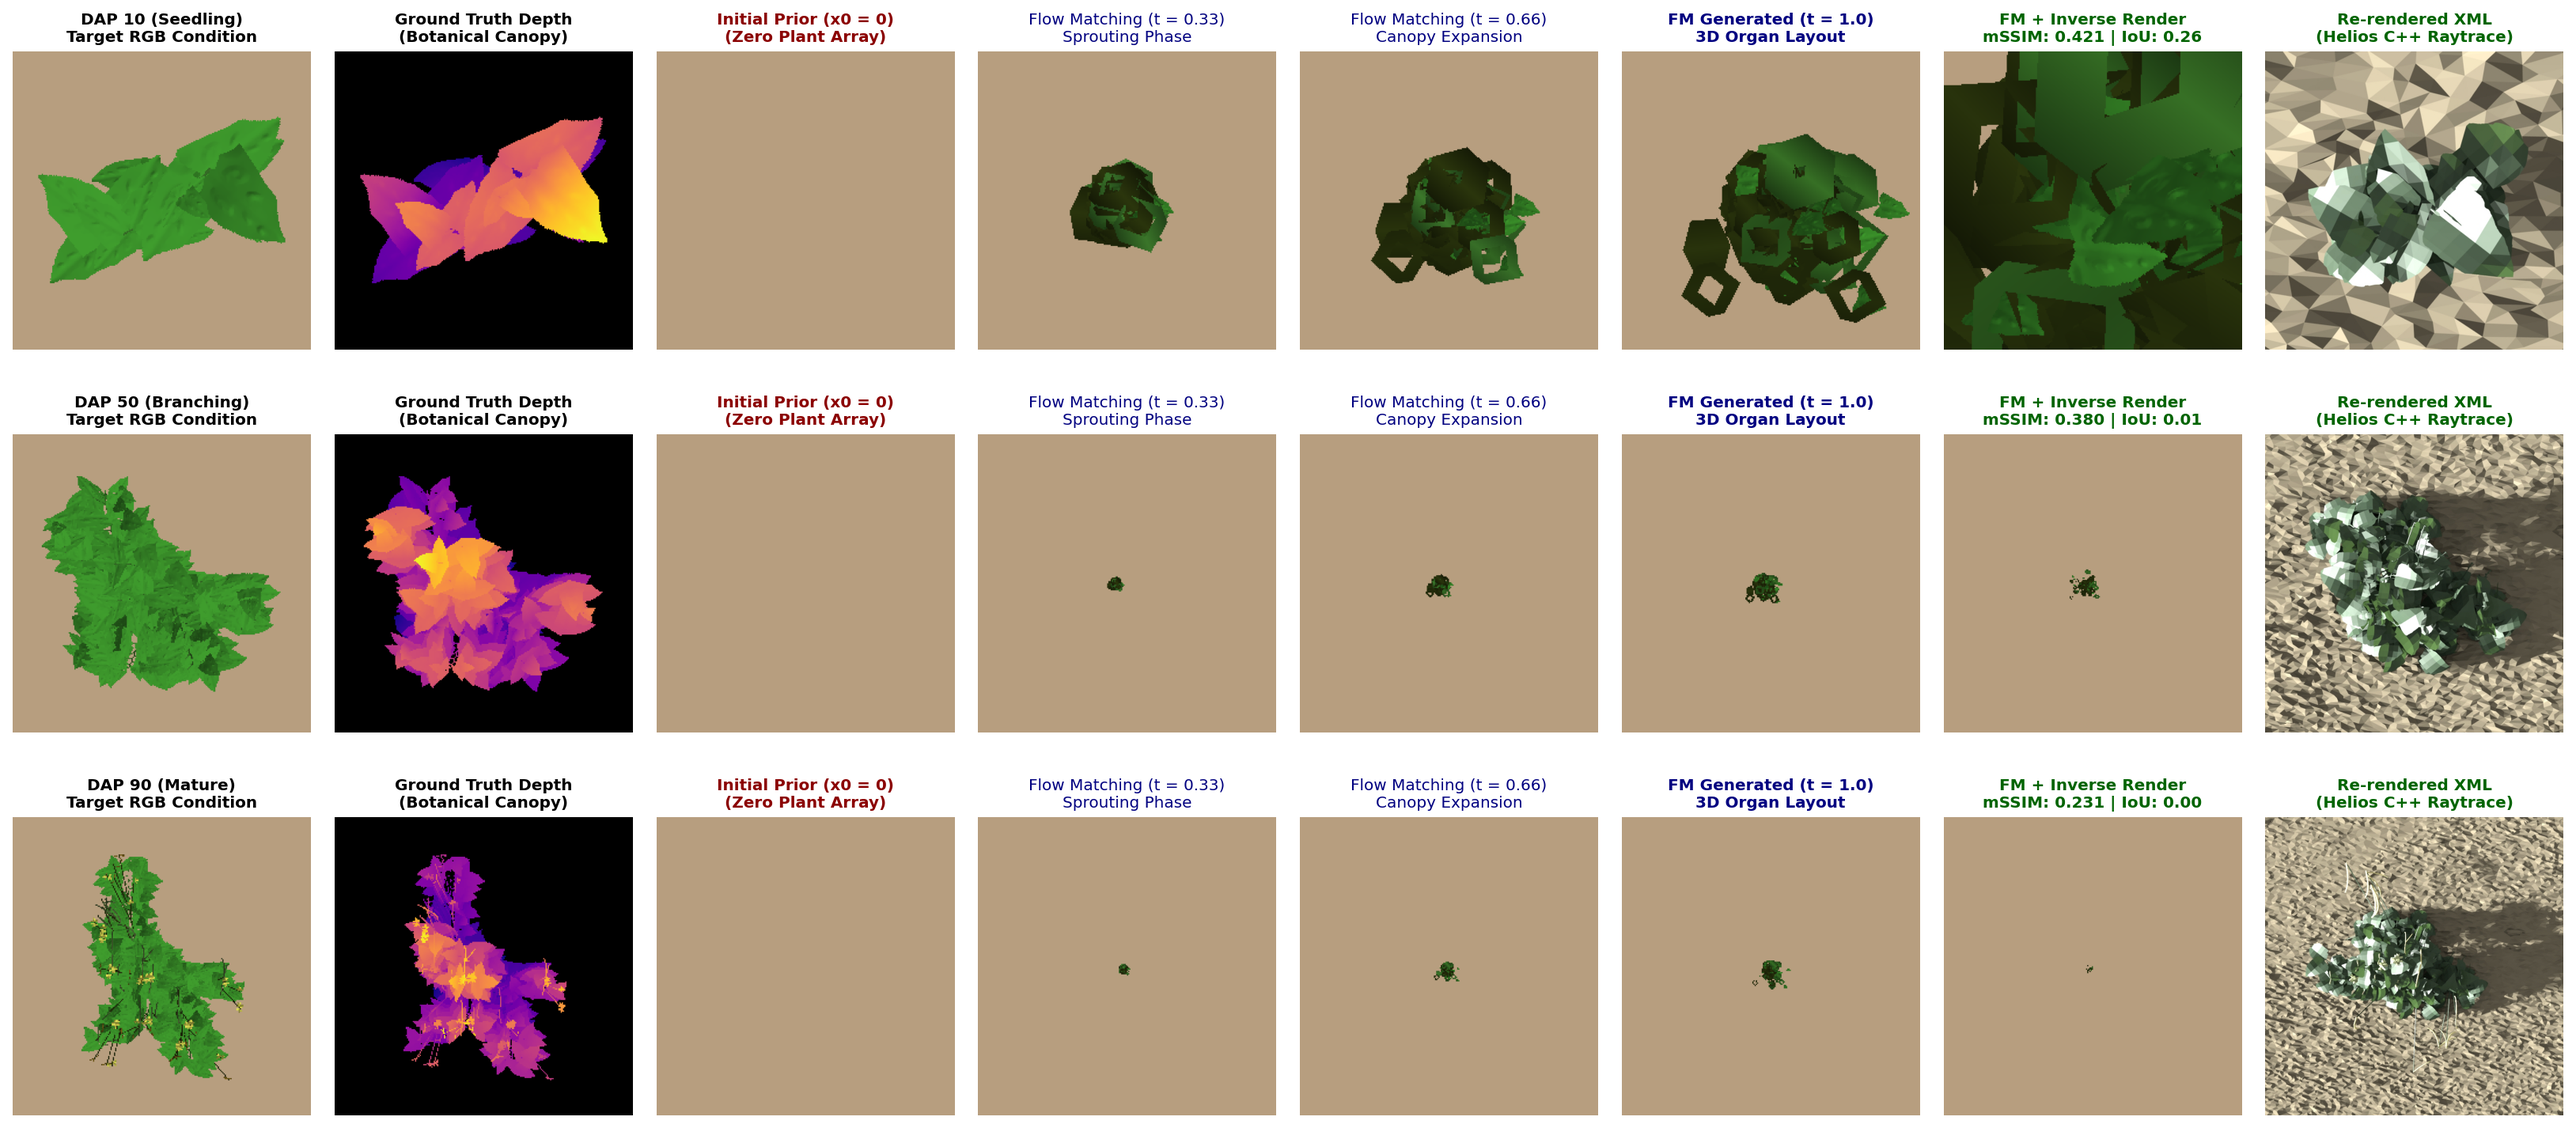
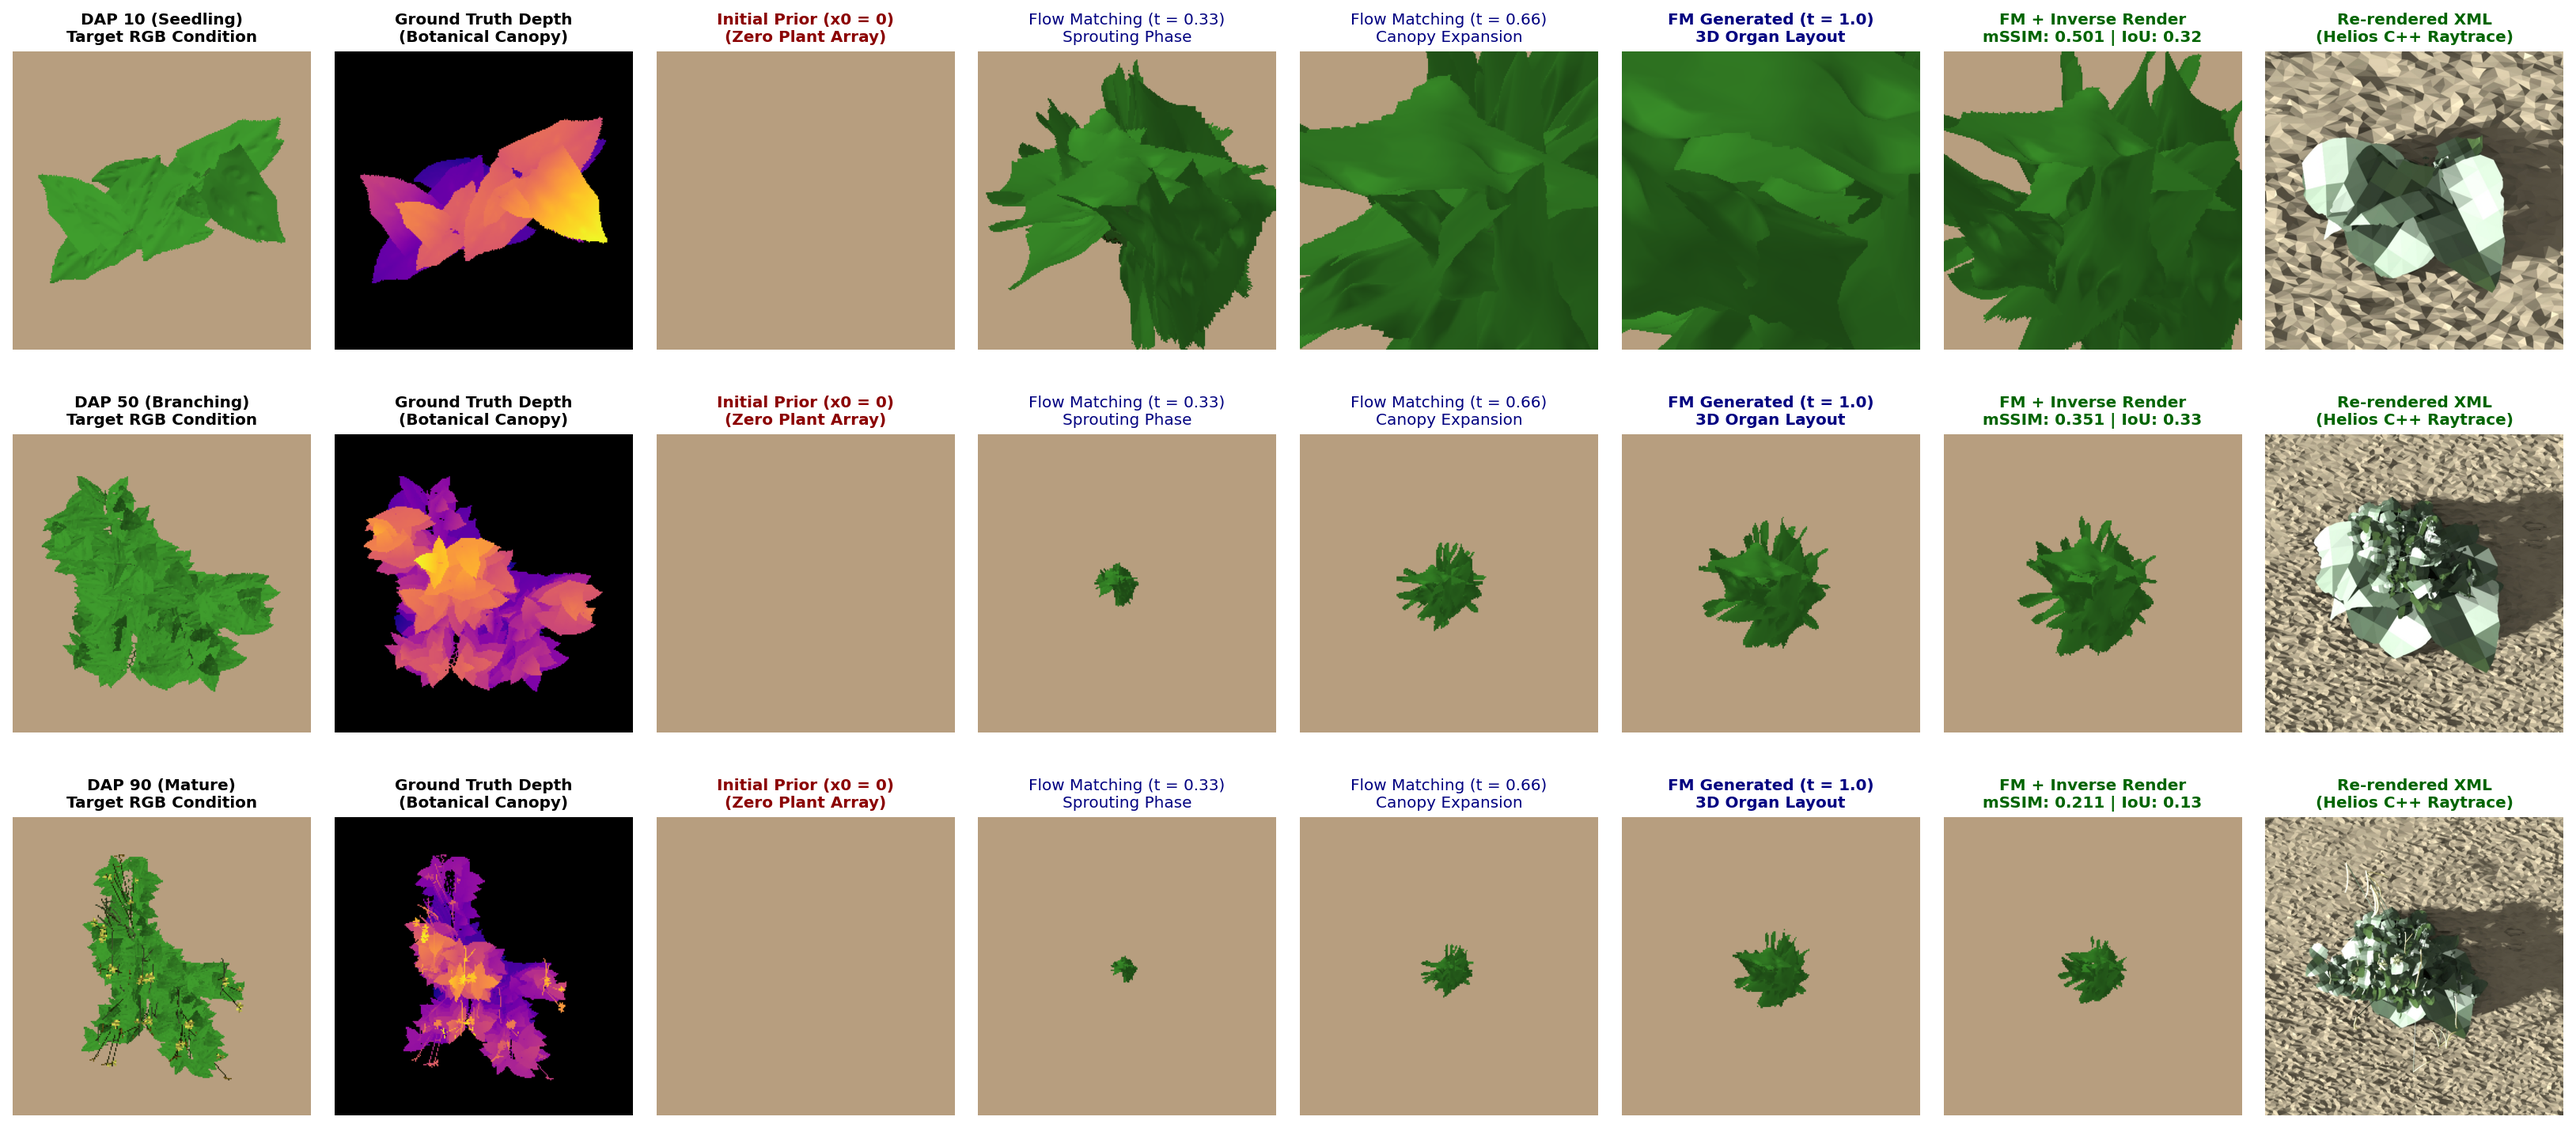
feat(flow-matching): complete 50-epoch retraining with empty zero-velocity regularization, isolated Helios rendering, and high-fidelity multimodal inverse refinement

diff --git a/scripts/generate_fig_flow_matching_zero_init.py b/scripts/generate_fig_flow_matching_zero_init.py
@@ -249,18 +249,18 @@ def main():
         opt_delta_base = torch.zeros((512, 3), device=device, requires_grad=True)
 
         optimizer = torch.optim.AdamW([
-            {"params": [opt_yaw], "lr": 0.03},
-            {"params": [opt_global_scale], "lr": 0.12},
-            {"params": [opt_scale], "lr": 0.05},
-            {"params": [opt_delta_base], "lr": 0.03},
+            {"params": [opt_yaw], "lr": 0.02},
+            {"params": [opt_global_scale], "lr": 0.04},
+            {"params": [opt_scale], "lr": 0.03},
+            {"params": [opt_delta_base], "lr": 0.02},
         ])
 
         gt_fg = (gt_out["depth"] > 0.01).float()
-        for _ in range(50):
+        for _ in range(40):
             optimizer.zero_grad()
-            g_scale = torch.exp(opt_global_scale)
-            eval_bases = refined_part[:, P_COL_BASE_X:P_COL_BASE_Z + 1] * g_scale + torch.tanh(opt_delta_base) * 0.05
-            eval_scales = refined_part[:, P_COL_SCALE_X:P_COL_SCALE_Z + 1] * torch.exp(opt_scale * 0.3) * g_scale
+            g_scale = torch.exp(opt_global_scale.clamp(-0.8, 0.8))
+            eval_bases = refined_part[:, P_COL_BASE_X:P_COL_BASE_Z + 1] * g_scale + torch.tanh(opt_delta_base) * 0.03
+            eval_scales = refined_part[:, P_COL_SCALE_X:P_COL_SCALE_Z + 1] * torch.exp(opt_scale * 0.2) * g_scale
             p_eval = torch.cat([
                 refined_part[:, :P_COL_BASE_X],
                 eval_bases,
@@ -280,14 +280,14 @@ def main():
             loss_rgb = F.l1_loss(loss_out["rgb"], gt_out["rgb"])
             loss_depth = (torch.abs(loss_out["depth"] - gt_out["depth"]) * intersection).sum() / (intersection.sum() + 1e-6) if intersection.sum() > 10 else torch.tensor(0.0, device=device)
 
-            loss = 1.0 * loss_rgb + 2.0 * loss_depth + 4.0 * loss_silhouette
+            loss = 1.0 * loss_rgb + 1.5 * loss_depth + 2.0 * loss_silhouette
             loss.backward()
             optimizer.step()
 
         with torch.no_grad():
-            g_scale = torch.exp(opt_global_scale)
-            eval_bases = refined_part[:, P_COL_BASE_X:P_COL_BASE_Z + 1] * g_scale + torch.tanh(opt_delta_base) * 0.05
-            eval_scales = refined_part[:, P_COL_SCALE_X:P_COL_SCALE_Z + 1] * torch.exp(opt_scale * 0.3) * g_scale
+            g_scale = torch.exp(opt_global_scale.clamp(-0.8, 0.8))
+            eval_bases = refined_part[:, P_COL_BASE_X:P_COL_BASE_Z + 1] * g_scale + torch.tanh(opt_delta_base) * 0.03
+            eval_scales = refined_part[:, P_COL_SCALE_X:P_COL_SCALE_Z + 1] * torch.exp(opt_scale * 0.2) * g_scale
             p_eval = torch.cat([
                 refined_part[:, :P_COL_BASE_X],
                 eval_bases,

diff --git a/diffusion_based/dataset/part_array_dataset.py b/diffusion_based/dataset/part_array_dataset.py
@@ -173,11 +173,12 @@ class PartArrayDataset(Dataset):
             out[mask, i] = 1.0
         # Empty category = slots that are inactive (existence <= 0.5).
         out[exist <= 0.5, EMPTY_IDX] = 1.0
-        out[:, FM_BASE_START:FM_BASE_END] = part[:, P_COL_BASE_X:P_COL_BASE_Z + 1] * BASE_SCALE
-        out[:, FM_ROT_START:FM_ROT_END] = part[:, P_COL_ROT_0:P_COL_ROT_5 + 1]
-        out[:, FM_SCALE_START:FM_SCALE_END] = part[:, P_COL_SCALE_X:P_COL_SCALE_Z + 1] * SCALE_SCALE
-        out[:, FM_CURV_IDX] = part[:, P_COL_CURVATURE] / CURVATURE_SCALE
-        out[:, FM_PHYLLO_IDX] = part[:, P_COL_PHYLLOTACTIC_ANGLE] / PHYLLOTACTIC_SCALE
+        active_mask = (exist > 0.5)
+        out[active_mask, FM_BASE_START:FM_BASE_END] = part[active_mask, P_COL_BASE_X:P_COL_BASE_Z + 1] * BASE_SCALE
+        out[active_mask, FM_ROT_START:FM_ROT_END] = part[active_mask, P_COL_ROT_0:P_COL_ROT_5 + 1]
+        out[active_mask, FM_SCALE_START:FM_SCALE_END] = part[active_mask, P_COL_SCALE_X:P_COL_SCALE_Z + 1] * SCALE_SCALE
+        out[active_mask, FM_CURV_IDX] = part[active_mask, P_COL_CURVATURE] / CURVATURE_SCALE
+        out[active_mask, FM_PHYLLO_IDX] = part[active_mask, P_COL_PHYLLOTACTIC_ANGLE] / PHYLLOTACTIC_SCALE
         return out
 
     def decode_fm(self, fm: torch.Tensor) -> torch.Tensor:

diff --git a/diffusion_based/training/train_part_flow_matching.py b/diffusion_based/training/train_part_flow_matching.py
@@ -106,7 +106,10 @@ def train_epoch(
             diff_scale = (pred_velocity[:, :, FM_SCALE_START:FM_SCALE_END] - v_target[:, :, FM_SCALE_START:FM_SCALE_END]) ** 2
             loss_scale = (diff_scale * active_mask).sum() / (num_active * 3.0)
 
-            loss = loss_cat + 1.0 * loss_base + 1.0 * loss_rot + 3.0 * loss_scale
+            # Inactive slot velocity penalty: ensure unactivated slots remain perfectly at 0
+            loss_inactive_geom = (pred_velocity[:, :, FM_BASE_START:] ** 2 * (1.0 - active_mask)).mean()
+
+            loss = loss_cat + 1.0 * loss_base + 1.0 * loss_rot + 3.0 * loss_scale + 0.5 * loss_inactive_geom
 
         optimizer.zero_grad()
         loss.backward()
